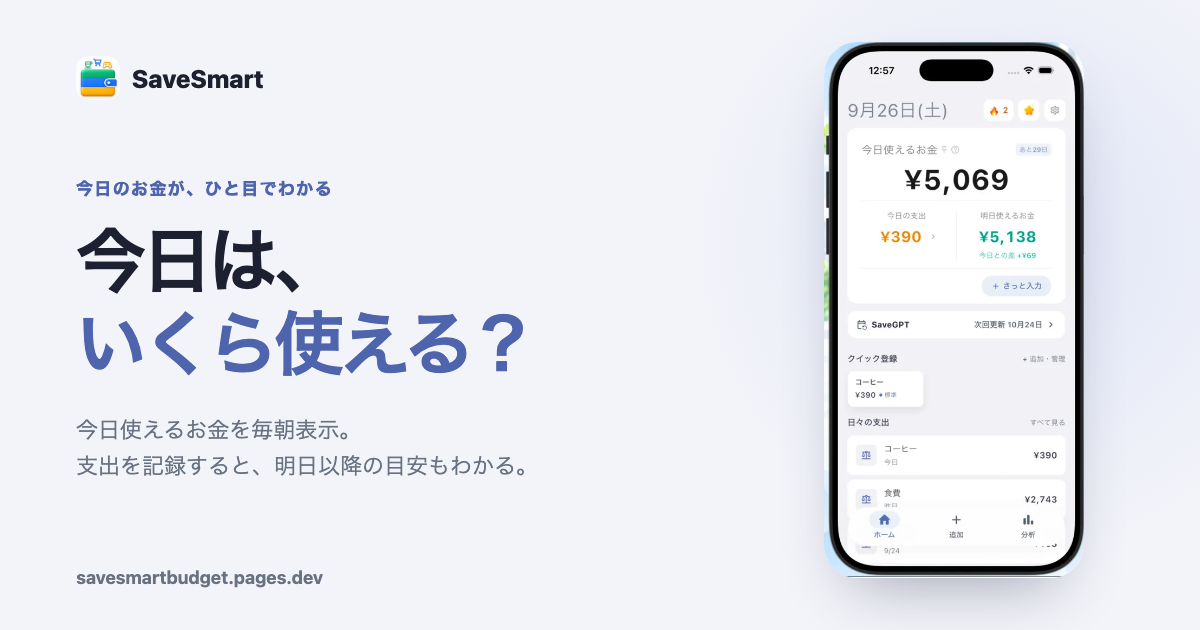
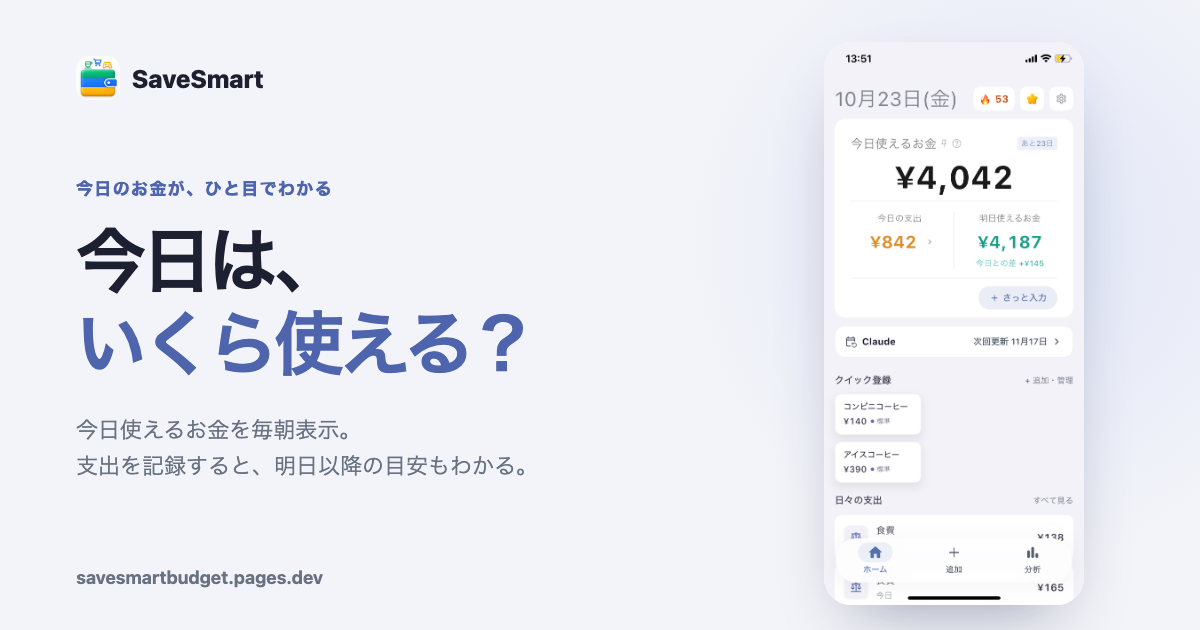
Use current app home screenshot on site

Changed region(s): [[0.6783, 0.0603, 0.925, 0.9952], [0.8017, 0.3317, 0.8633, 0.4825]]

diff --git a/assets/og-image-source.html b/assets/og-image-source.html
@@ -15,8 +15,8 @@
   h1 { margin: 0; font-size: 70px; line-height: 1.18; letter-spacing: -.055em; }
   h1 span { color: #4e65ad; }
   .lead { margin: 27px 0 0; font-size: 22px; line-height: 1.65; color: #687282; }
-  .phone { position: absolute; top: 42px; right: 116px; width: 260px; aspect-ratio: 480 / 990; overflow: hidden; border-radius: 33px; background: white; box-shadow: 0 30px 64px -29px rgba(36, 43, 78, .45); }
-  .phone img { display: block; width: 125%; height: auto; transform: translate(-10%, -23.9%); }
+  .phone { position: absolute; top: 42px; right: 116px; width: 260px; aspect-ratio: 1170 / 2532; overflow: hidden; border-radius: 27px; background: white; box-shadow: 0 30px 64px -29px rgba(36, 43, 78, .45); }
+  .phone img { display: block; width: 100%; height: auto; }
   .footer { position: absolute; left: 76px; bottom: 42px; font-size: 18px; font-weight: 700; color: #687282; }
 </style>
 </head>
@@ -28,7 +28,7 @@
       <h1>今日は、<br><span>いくら使える？</span></h1>
       <p class="lead">今日使えるお金を毎朝表示。<br>支出を記録すると、明日以降の目安もわかる。</p>
     </div>
-    <div class="phone"><img src="savesmart-home-appstore.webp" alt=""></div>
+    <div class="phone"><img src="savesmart-home-20261023.jpeg" alt=""></div>
     <div class="footer">savesmartbudget.pages.dev</div>
   </div>
 </body>

diff --git a/assets/app-theme.css b/assets/app-theme.css
@@ -30,8 +30,8 @@ header.hero .lead { font-size: clamp(1.05rem, 2vw, 1.2rem); max-width: 31em; lin
 .hero-underlink a { color: var(--muted); text-decoration: underline; text-underline-offset: 4px; }
 
 .app-preview { width: min(100%, 330px); margin: 0; justify-self: center; text-align: center; }
-.app-screen-crop { width: 100%; aspect-ratio: 480 / 990; overflow: hidden; border-radius: 42px; background: var(--surface); box-shadow: 0 30px 62px -32px rgba(36, 43, 78, .45); }
-.app-screen-crop img { display: block; width: 125%; max-width: none; height: auto; transform: translate(-10%, -23.9%); }
+.app-screen-crop { width: 100%; aspect-ratio: 1170 / 2532; overflow: hidden; border: 1px solid var(--border); border-radius: 34px; background: var(--surface); box-shadow: 0 30px 62px -32px rgba(36, 43, 78, .45); }
+.app-screen-crop img { display: block; width: 100%; height: auto; }
 .app-preview figcaption { margin-top: 16px; color: var(--muted); font-size: .82rem; }
 
 section { border-top: 0; padding: 74px 0; }

diff --git a/index.html b/index.html
@@ -320,8 +320,8 @@
       </div>
 
       <figure class="app-preview">
-        <div class="app-screen-crop"><img src="assets/savesmart-home-appstore.webp" width="600" height="1299" alt="SaveSmartのホーム画面。今日使えるお金、今日の支出、明日使えるお金、クイック登録が並ぶ" fetchpriority="high"></div>
-        <figcaption>アプリのホーム画面（サンプルデータ）</figcaption>
+        <div class="app-screen-crop"><img src="assets/savesmart-home-20261023.jpeg" width="1170" height="2532" alt="SaveSmartのホーム画面。今日使えるお金、今日の支出、明日使えるお金、クイック登録が並ぶ" fetchpriority="high"></div>
+        <figcaption>実際のアプリのホーム画面</figcaption>
       </figure>
     </div>
   </div>

diff --git a/en/index.html b/en/index.html
@@ -291,8 +291,8 @@
       </div>
 
       <figure class="app-preview">
-        <div class="app-screen-crop"><img src="../assets/savesmart-home-appstore.webp" width="600" height="1299" alt="SaveSmart home screen showing today's spendable amount, today's spending, tomorrow's guide and quick entry" fetchpriority="high"></div>
-        <figcaption>Actual app screen with sample data</figcaption>
+        <div class="app-screen-crop"><img src="../assets/savesmart-home-20261023.jpeg" width="1170" height="2532" alt="SaveSmart home screen showing today's spendable amount, today's spending, tomorrow's guide and quick entry" fetchpriority="high"></div>
+        <figcaption>Actual app home screen</figcaption>
       </figure>
     </div>
   </div>
